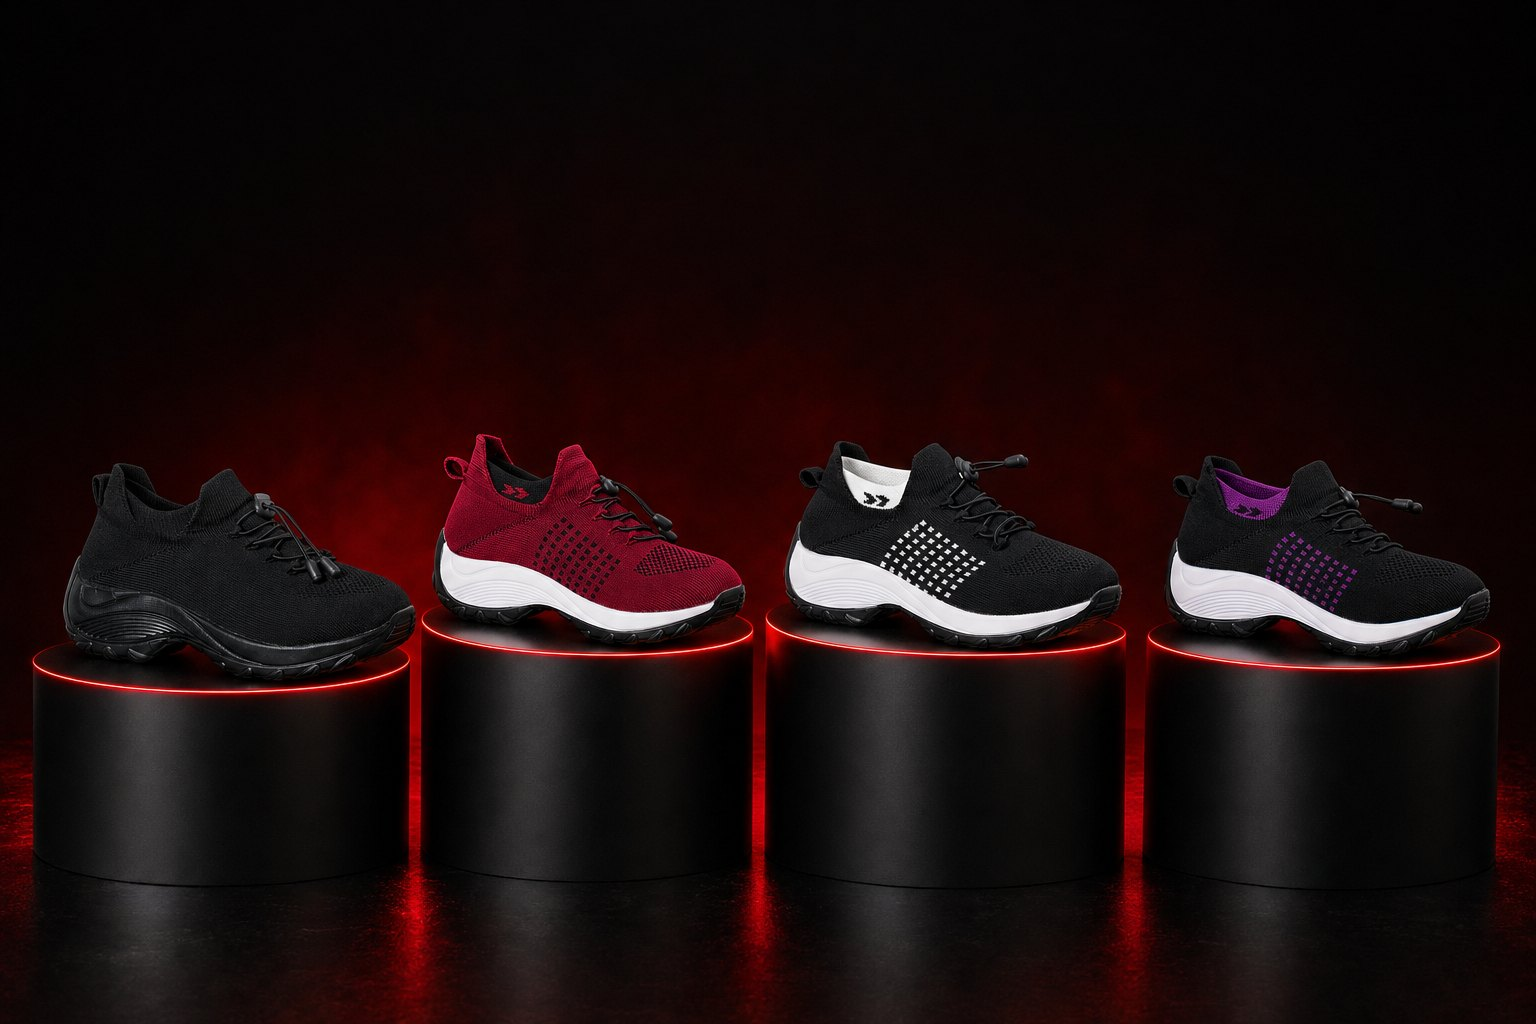
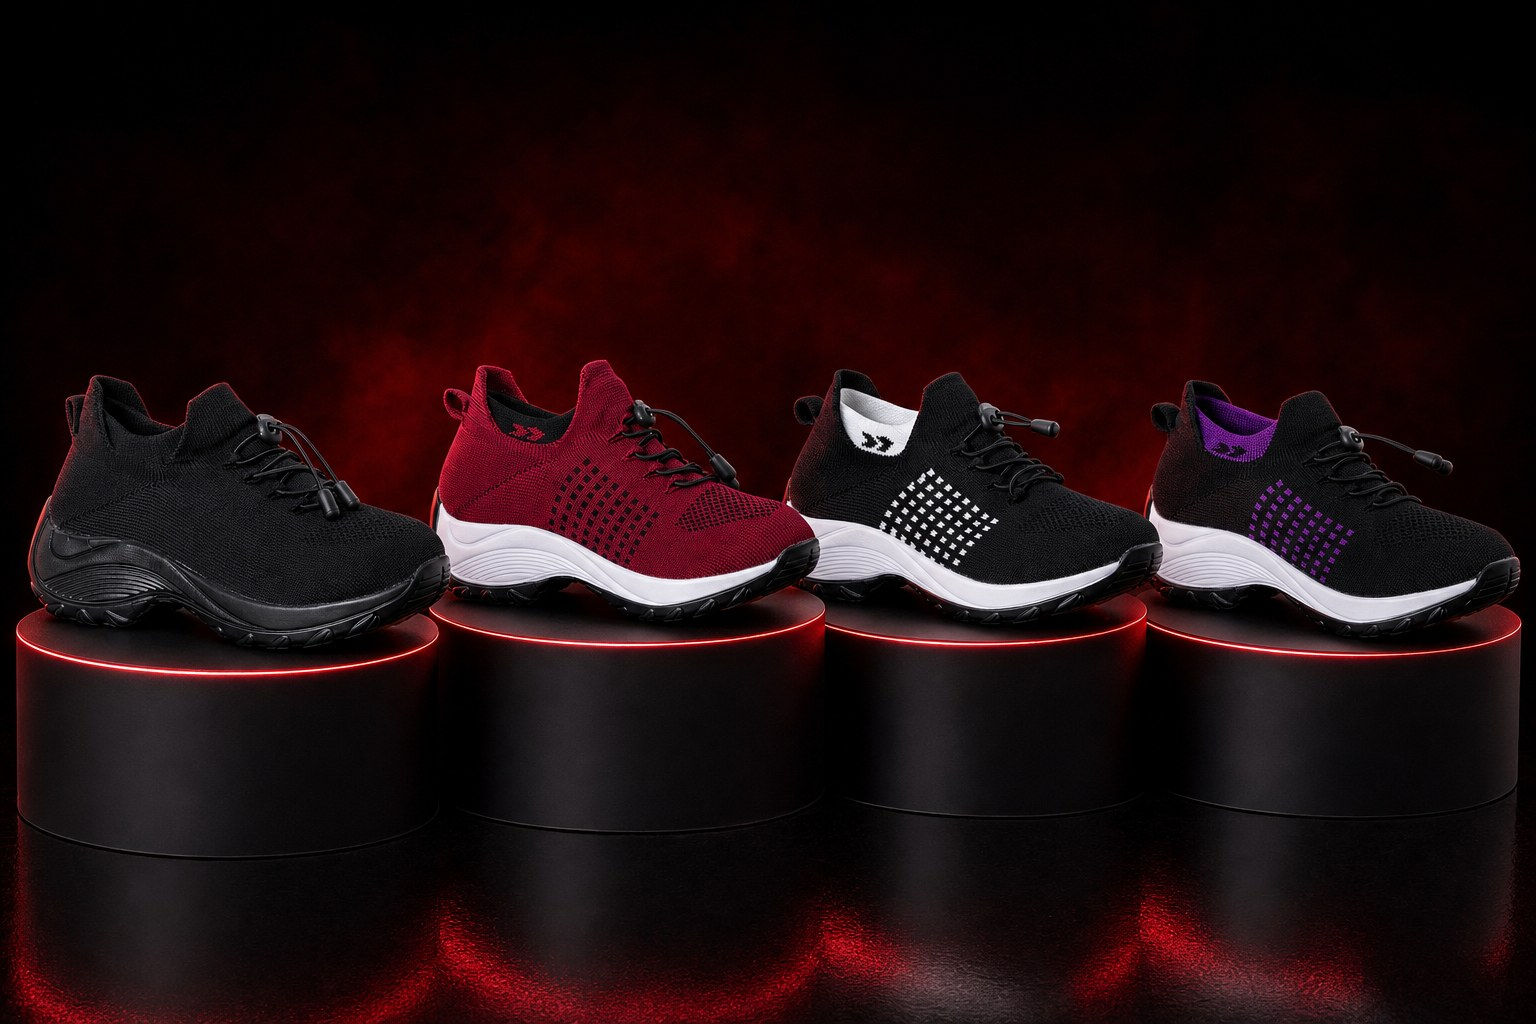
Black Friday page: bigger hero, stacked podiums on mobile
- Desktop hero: closer shot, shoes span the full width
- Mobile hero: portrait image with podiums in two rows (top/bottom)
- Fade the hero image into the header; move SALE tag on mobile
- Add full-length desktop and mobile preview renders

Claude-Session: https://claude.ai/code/session_01BUmcfUYD2D5BMCthzYK3pV

diff --git a/landing/black-friday-2026/index.html b/landing/black-friday-2026/index.html
@@ -65,9 +65,10 @@ p { margin: 0; }
 .hero { position: relative; isolation: isolate; text-align: center; }
 .hero-word { font-weight: 800; font-size: var(--step-4); letter-spacing: -0.02em; text-transform: uppercase; line-height: 0.85; padding-top: clamp(12px, 3vw, 36px); position: relative; z-index: 2; }
 .hero-word .outline { color: transparent; -webkit-text-stroke: 2px var(--red); display: block; }
-.hero-figure { margin: clamp(-60px, -5vw, -18px) 0 0; position: relative; z-index: 1; }
+.hero-figure { margin: clamp(-40px, -3vw, -14px) auto 0; max-width: 1600px; position: relative; z-index: 1; }
 .hero-figure img { width: 100%; height: auto; aspect-ratio: 1536 / 1024; object-fit: cover; }
-.hero-figure::after { content: ""; position: absolute; inset: auto 0 0 0; height: 30%; background: linear-gradient(to bottom, transparent, var(--ink)); pointer-events: none; }
+.hero-figure::before { content: ""; position: absolute; z-index: 1; inset: 0 0 auto 0; height: 22%; background: linear-gradient(to top, transparent, var(--ink)); pointer-events: none; }
+.hero-figure::after { content: ""; position: absolute; inset: auto 0 0 0; height: 18%; background: linear-gradient(to bottom, transparent, var(--ink)); pointer-events: none; }
 .sale-tag { position: absolute; z-index: 3; top: clamp(10px, 4vw, 70px); left: max(16px, 5vw); transform: rotate(-9deg); background: var(--red); color: #fff; font-family: var(--display); font-weight: 800; font-size: clamp(1rem, 0.6rem + 1.6vw, 1.7rem); padding: 0.35em 0.9em 0.35em 1.4em; clip-path: polygon(14% 0, 100% 0, 100% 100%, 14% 100%, 0 50%); box-shadow: 0 10px 30px rgba(227, 21, 43, 0.35); }
 .sale-tag::before { content: ""; position: absolute; left: 0.55em; top: 50%; width: 0.38em; height: 0.38em; margin-top: -0.19em; border-radius: 50%; background: var(--ink); }
 
@@ -192,7 +193,9 @@ footer .wrap { display: flex; flex-wrap: wrap; justify-content: space-between; g
   .top-link { display: none; }
   .top { justify-content: center; }
   .hero-word .outline { -webkit-text-stroke-width: 1.5px; }
-  .hero-figure img { aspect-ratio: 1536 / 724; }
+  .hero-figure img { aspect-ratio: 1024 / 1336; }
+  .hero-figure { margin-top: -14px; }
+  .sale-tag { left: auto; right: 16px; top: 18px; transform: rotate(8deg); }
   .offer .btn { padding: 0 1.4em; font-size: 0.95rem; }
   .perk { padding: 16px 6px; }
   .perk .label { font-size: 0.64rem; letter-spacing: 0.08em; }
@@ -226,7 +229,7 @@ footer .wrap { display: flex; flex-wrap: wrap; justify-content: space-between; g
     </div>
     <figure class="hero-figure">
       <picture>
-        <source media="(max-width: 640px)" srcset="img/hero-podiums-tight.jpg">
+        <source media="(max-width: 640px)" srcset="img/hero-podiums-mobile.jpg" width="1024" height="1336">
         <img src="img/hero-podiums.jpg" width="1536" height="1024" alt="Four Comfort Wear Ortho Stretch Cushion Shoes on red-lit black podiums: all black, burgundy red, black with white sole, and black with purple accents.">
       </picture>
       <div class="sale-tag" aria-hidden="true">SALE</div>
